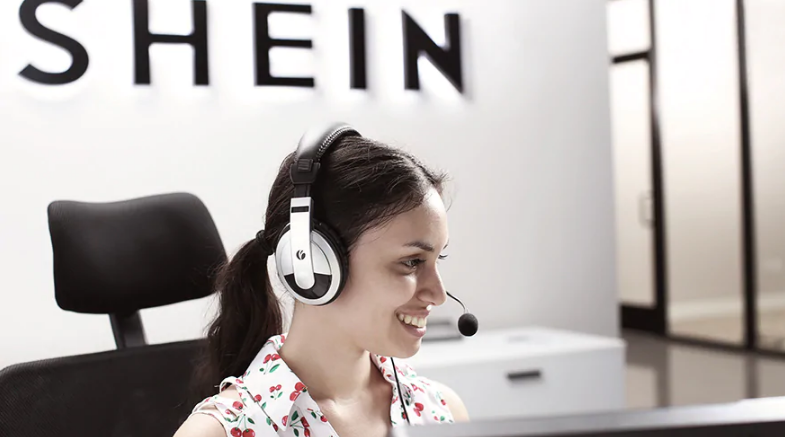
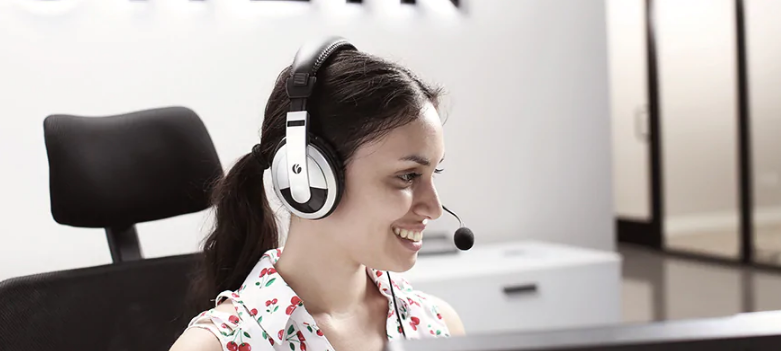
MAJ photos inutile

diff --git a/sao.css b/sao.css
@@ -101,7 +101,7 @@
     margin-bottom: 25px;
 }
 .img-q8 {
-    background-image: url("img/operatrice.jpg");
+    background-image: url("img/operatrice1.jpg");
     height: 321px;
     background-size: contain;
     background-repeat: no-repeat;

diff --git a/style.css b/style.css
@@ -36,7 +36,7 @@ h1{
 .img-banniere3{
     background-image: url(img/ptlF.jpg);
     background-size: cover;
-    background-position-y: 36%;
+    background-position-y:29%;
 }
 .img-banniere4{
     background-image: url(img/plage.jpg);
